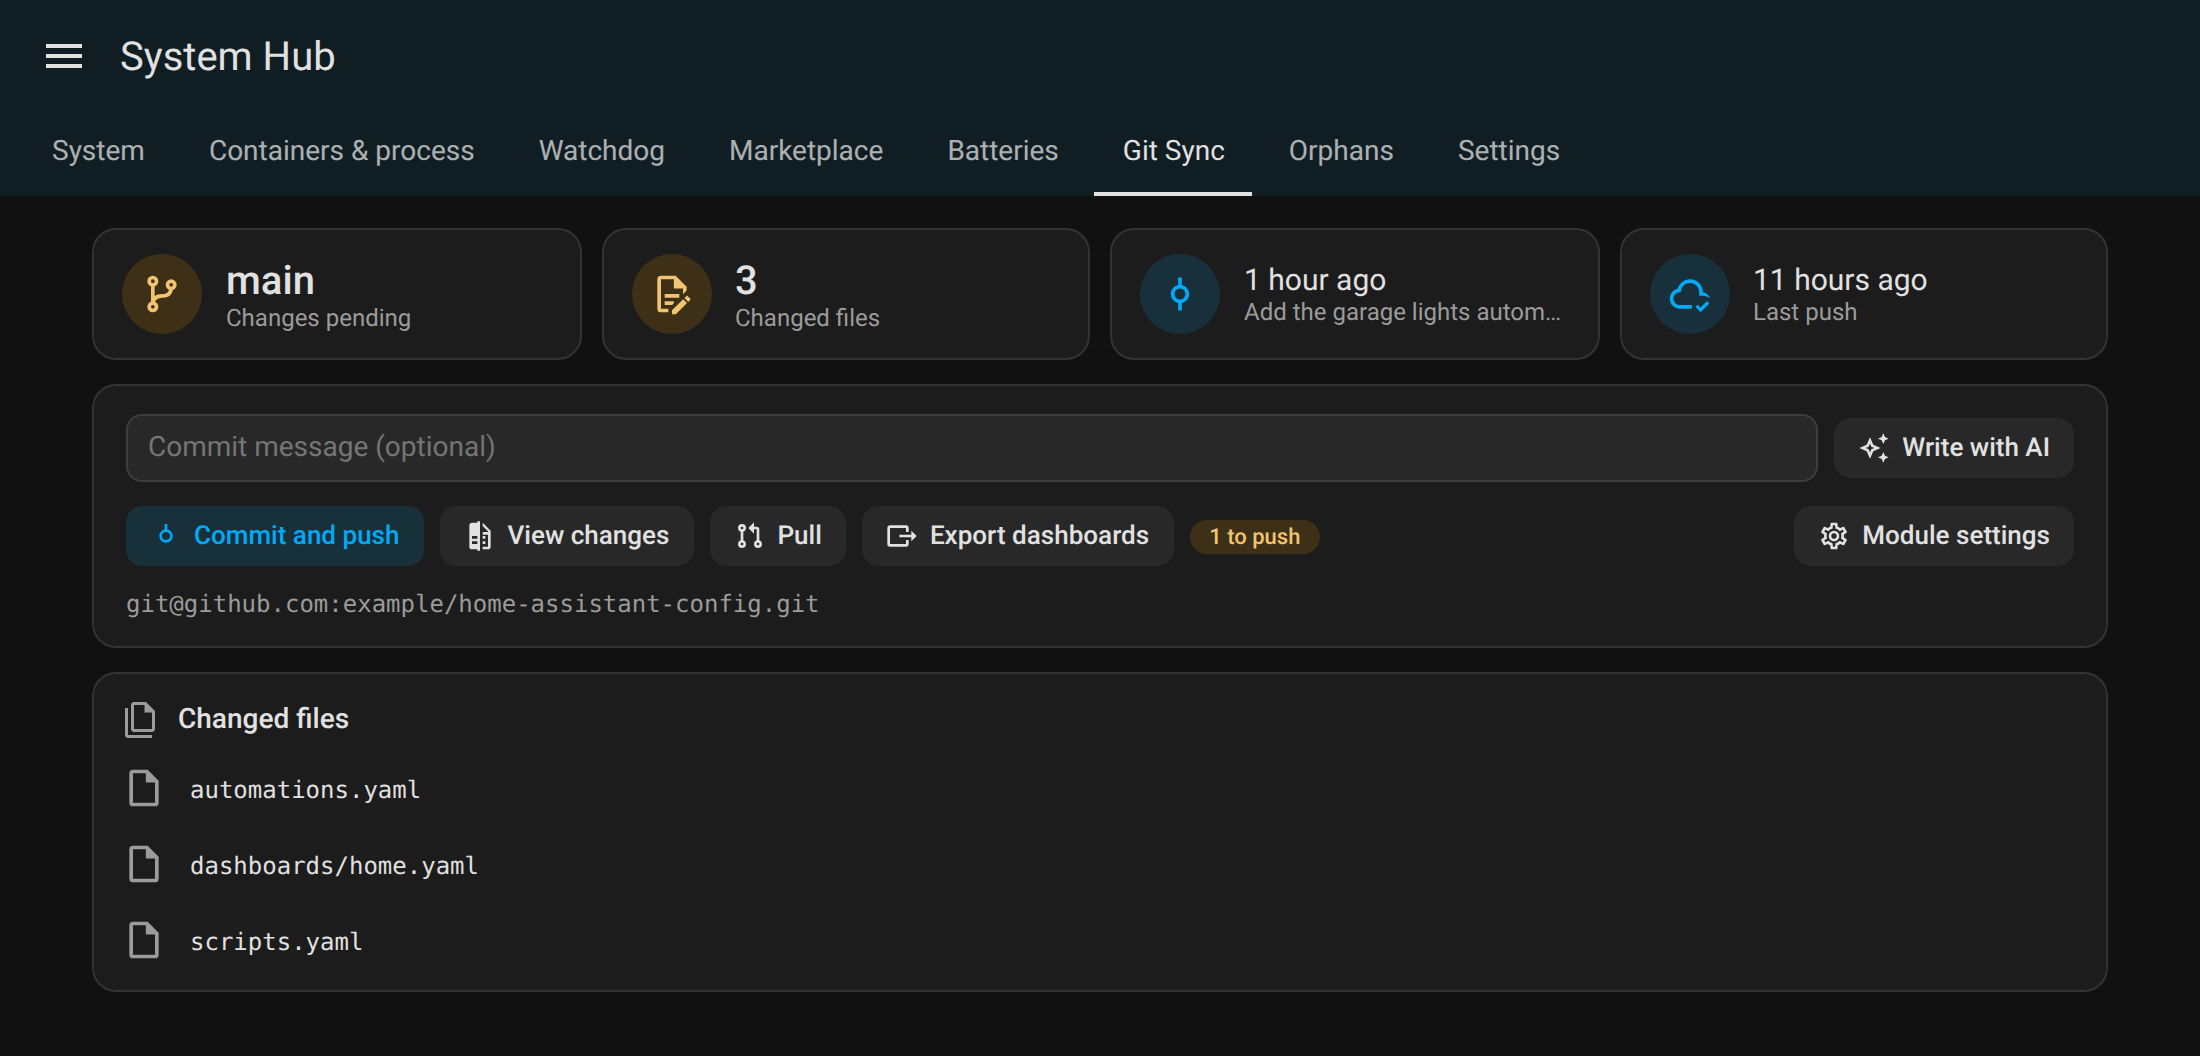
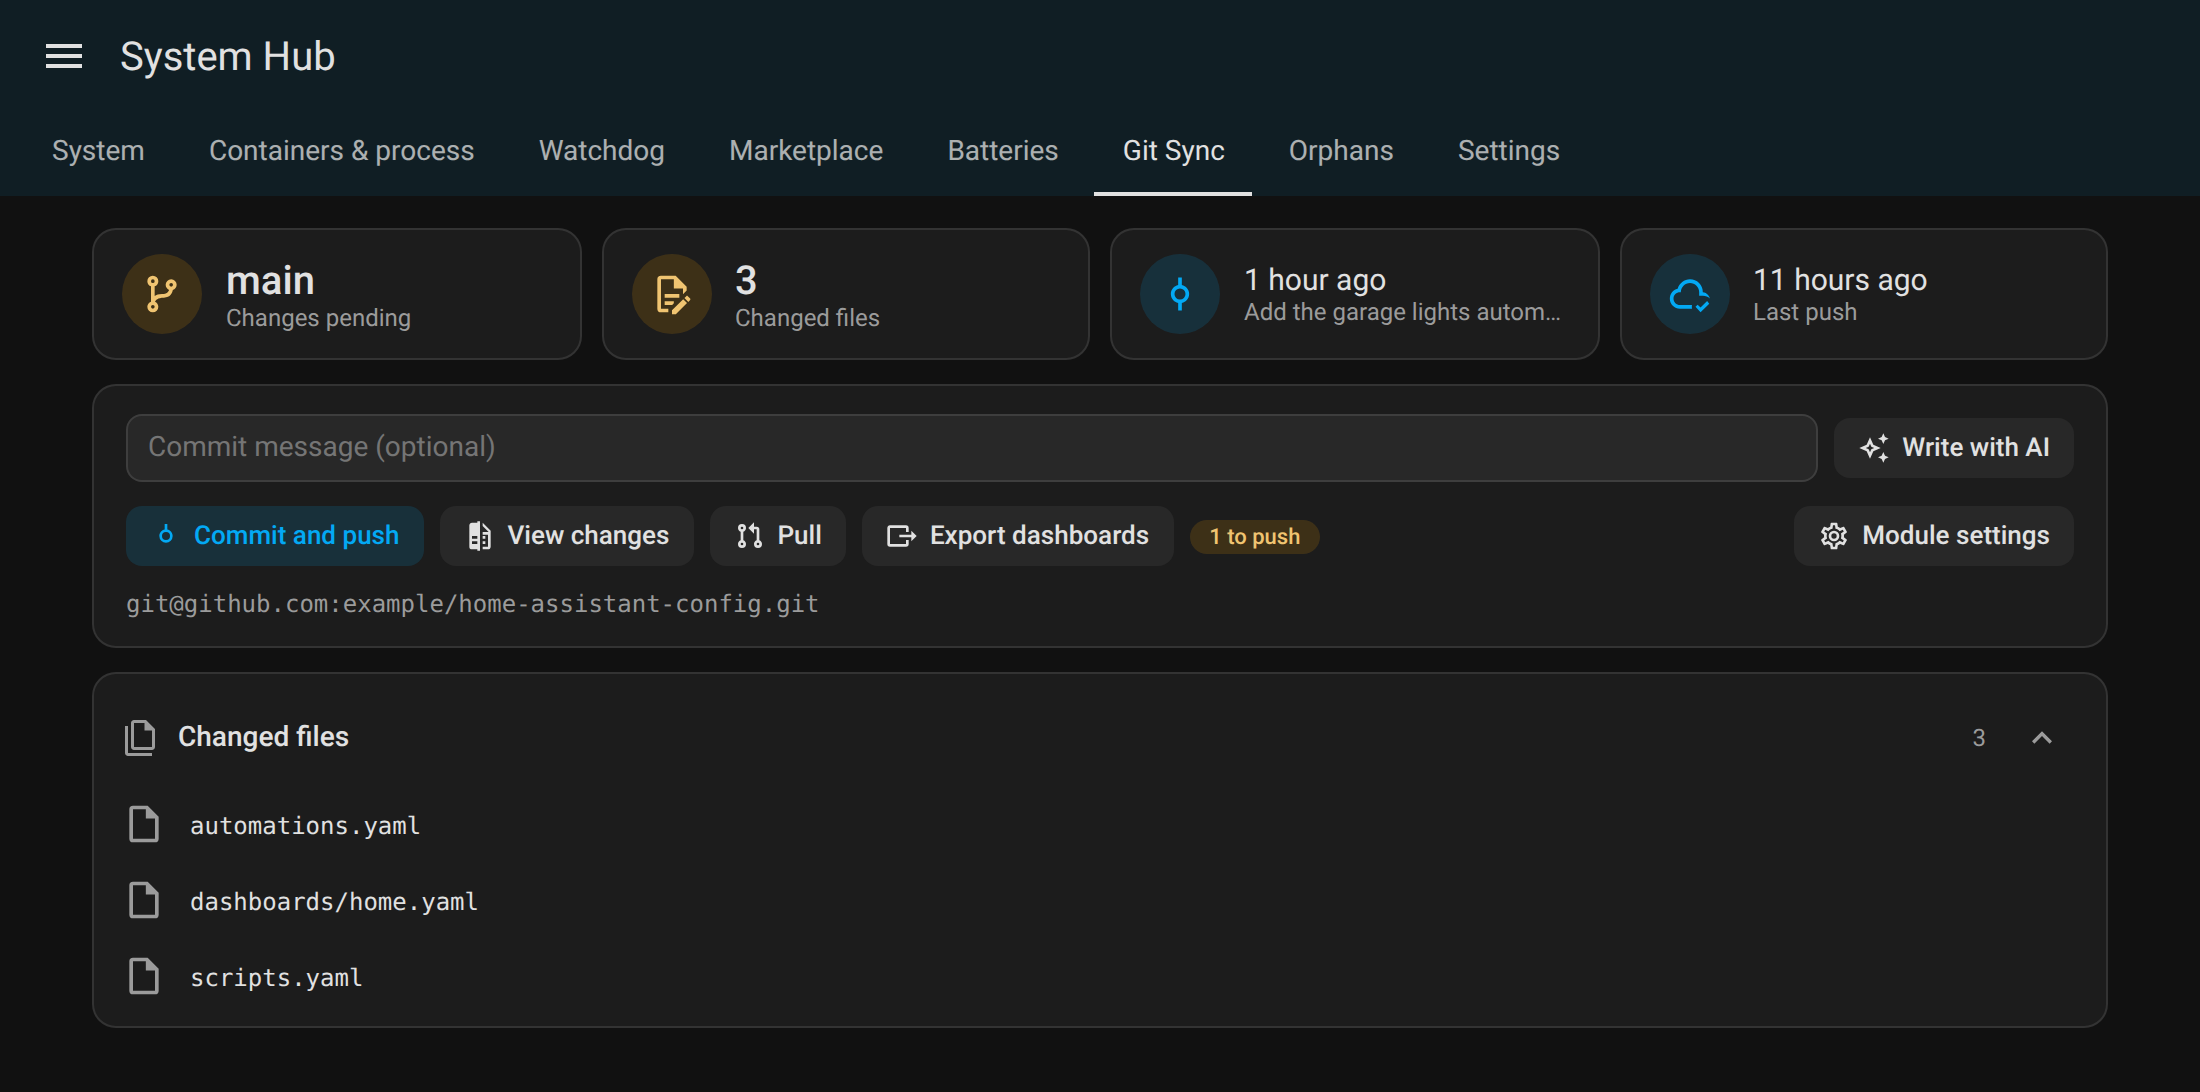
feat(panel): Git Sync files count, folded beyond 5 (#42)
* feat(panel): Git Sync's changed files with their count, folded beyond 5

Claude-Session: https://claude.ai/code/session_01F4sAmyycTFNTHxqEmdTsM7

* chore: refresh screenshots [skip ci]

---------

diff --git a/custom_components/system_hub/frontend/system-hub-panel.js b/custom_components/system_hub/frontend/system-hub-panel.js
@@ -36,6 +36,8 @@ var SH_MODULE_NAMES = {
 };
 // Automations tab: the items shown per list before "Show more", as in the Automation Monitor card
 var SH_AUTO_MAX = 5;
+// Git Sync tab: the list of changed files is folded beyond this many
+var SH_GIT_FILES_MAX = 5;
 
 // The size of an update from its versions (v1.2.3 → v1.3.0: minor); null when they are not numbers
 function shChange(from, to) {
@@ -1990,9 +1992,16 @@ class SystemHubPanel extends HTMLElement {
       this._tile('mdi:cloud-check-outline', shEsc(this._rel(data.last_push)), this._entityName('sensor', 'git_sync_last_push'), ''),
     ];
     var sync = [data.ahead ? this._t('ahead', { n: data.ahead }) : '', data.behind ? this._t('behind', { n: data.behind }) : ''].filter(Boolean).join(' · ');
-    var files = (data.files || [])
+    // The changed files: their count always; folded beyond SH_GIT_FILES_MAX until opened
+    var list = data.files || [];
+    var count = Math.max(data.changed ?? 0, list.length);
+    var open = this._gitFilesOpen ?? count <= SH_GIT_FILES_MAX;
+    var files = list
       .map((f) => `<div class="item"><ha-icon icon="mdi:file-outline"></ha-icon><div class="who"><div class="n"><code>${shEsc(f)}</code></div></div></div>`)
       .join('');
+    var fold = count
+      ? `<button class="icon-btn" data-action="git_files_fold" aria-expanded="${open}" title="${shEsc(this._t('changed'))}" aria-label="${shEsc(this._t('changed'))}"><ha-icon icon="mdi:chevron-${open ? 'up' : 'down'}"></ha-icon></button>`
+      : '';
     return `<div class="tiles">${tiles.join('')}</div>
       <ha-card class="block"><div class="actions"><label class="box"><input data-draft="message" placeholder="${shEsc(this._t('message'))}" value="${shEsc(this._draft.message || '')}"></label>
         ${data.ai_task ? this._button('git_sync_generate_message', 'mdi:creation-outline', this._t('generate'), { quiet: true }) : ''}</div>
@@ -2003,8 +2012,9 @@ class SystemHubPanel extends HTMLElement {
         ${sync ? `<span class="pill warn">${shEsc(sync)}</span>` : ''}${this._message('git_sync')}${this._configure()}</div>
         ${data.last_error ? `<span class="msg bad">${shEsc(data.last_error)}</span>` : ''}
         ${data.remote_url ? `<span class="msg"><code>${shEsc(data.remote_url)}</code></span>` : ''}</ha-card>
-      <ha-card class="list"><div class="lhead"><ha-icon icon="mdi:file-multiple-outline"></ha-icon><span class="lname">${shEsc(this._t('changed'))}</span></div>
-      ${files || `<div class="empty good"><ha-icon icon="mdi:check-circle-outline"></ha-icon>${shEsc(this._t('clean'))}</div>`}</ha-card>`;
+      <ha-card class="list"><div class="lhead"><ha-icon icon="mdi:file-multiple-outline"></ha-icon><span class="lname">${shEsc(this._t('changed'))}</span>
+        <span class="muted">${count}</span>${fold}</div>
+      ${count ? (open ? files : '') : `<div class="empty good"><ha-icon icon="mdi:check-circle-outline"></ha-icon>${shEsc(this._t('clean'))}</div>`}</ha-card>`;
   }
 
   // Settings: the modules turned on, and the order of the tabs
@@ -2083,6 +2093,11 @@ class SystemHubPanel extends HTMLElement {
       return this._render();
     }
     if (action === 'batt_csv') return this._battDownload();
+    if (action === 'git_files_fold') {
+      var shownNow = this._gitFilesOpen ?? Math.max(this._state.git_sync?.changed ?? 0, (this._state.git_sync?.files || []).length) <= SH_GIT_FILES_MAX;
+      this._gitFilesOpen = !shownNow;
+      return this._render();
+    }
     if (action === 'stock_edit' || action === 'stock_cancel') {
       this._stockForm = action === 'stock_edit';
       if (this._stockForm) {

diff --git a/CHANGELOG.md b/CHANGELOG.md
@@ -1,5 +1,10 @@
 # Changelog
 
+## Unreleased
+
+### Improved
+- **Git Sync tab**: the list of changed files shows their count, and is folded when there are more than 5 (a click opens it).
+
 ## 0.5.4 - 2026-11-11
 
 ### Improved
